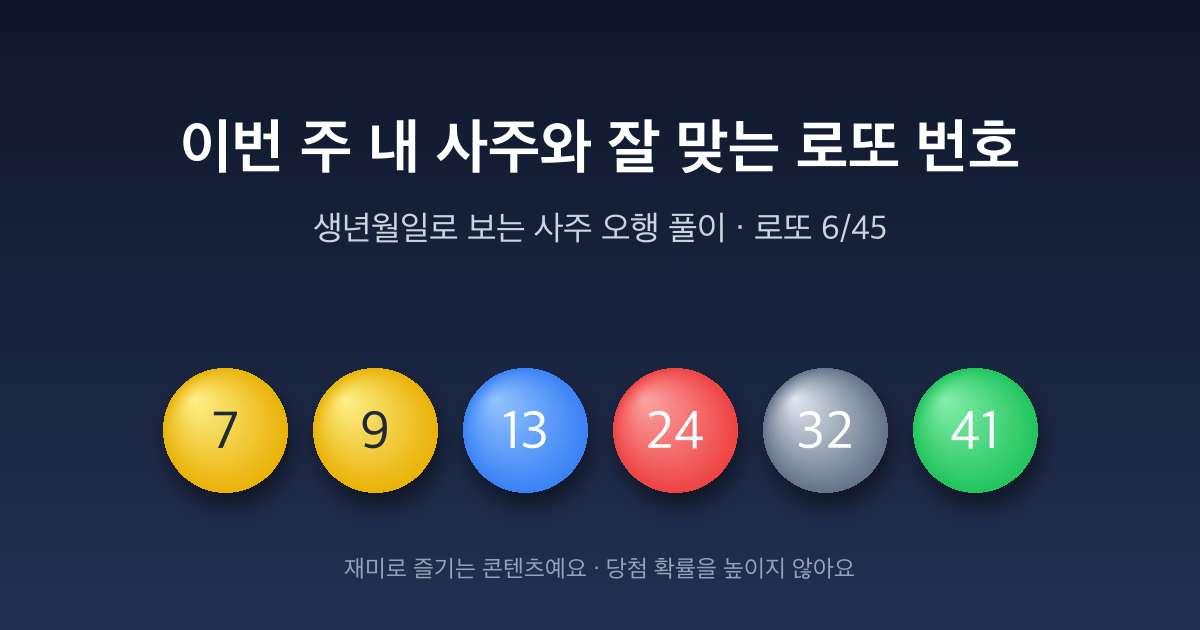
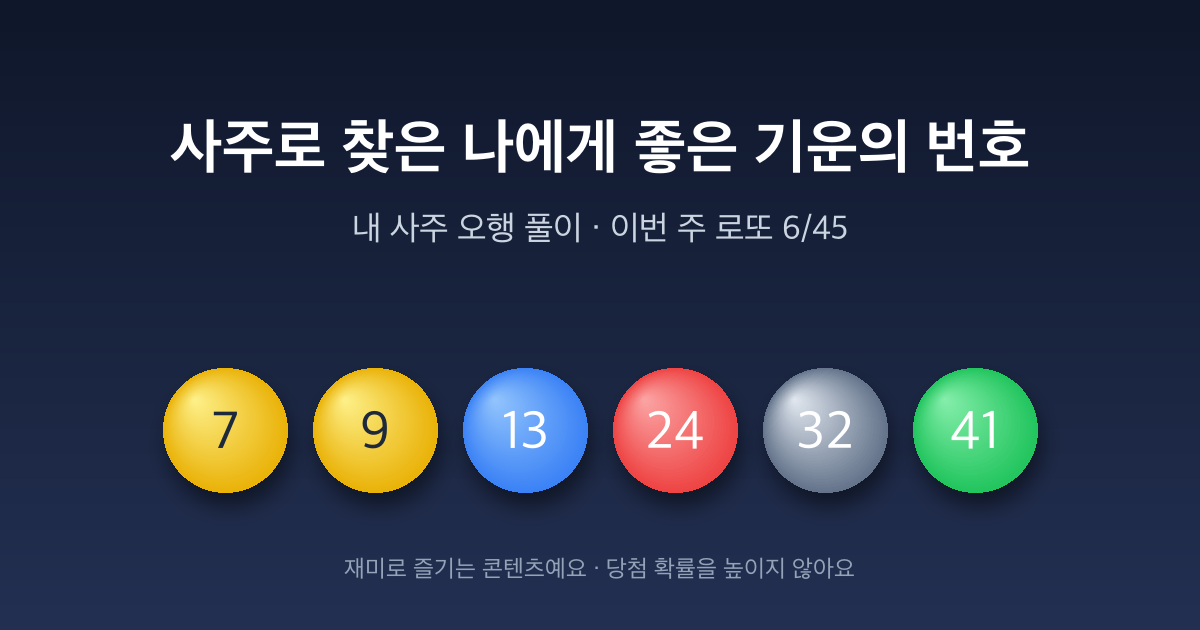
Remove per-number explanations; reframe as good-energy numbers from saju

Changed region(s): [[0.1233, 0.181, 0.8633, 0.3016], [0.2467, 0.3317, 0.74, 0.3921]]

diff --git a/index.html b/index.html
@@ -4,10 +4,10 @@
   <meta charset="UTF-8">
   <meta name="viewport" content="width=device-width, initial-scale=1.0">
   <title>행운의 로또 6/45 번호 생성기</title>
-  <meta name="description" content="생년월일로 보는 이번 주 사주 로또 번호와 풀이, 랜덤 번호 추첨까지. 재미로 즐기는 로또 6/45 번호 생성기.">
+  <meta name="description" content="내 사주 오행을 풀이하고, 이번 주 나에게 좋은 기운을 주는 번호를 알려 드려요. 랜덤 번호 추첨도 가능한 로또 6/45 번호 생성기 (재미용).">
   <meta property="og:type" content="website">
-  <meta property="og:title" content="이번 주 내 사주와 잘 맞는 로또 번호 🍀">
-  <meta property="og:description" content="생년월일로 사주 오행을 풀이하고, 이번 주 기운과 어울리는 로또 6/45 번호를 골라 드려요. (재미용 콘텐츠)">
+  <meta property="og:title" content="사주로 찾은 나에게 좋은 기운의 로또 번호 🍀">
+  <meta property="og:description" content="내 사주 오행을 풀이하고, 이번 주 나에게 좋은 기운을 주는 번호를 골라 드려요. (재미용 콘텐츠)">
   <meta property="og:url" content="https://chriskim926.github.io/product-builder-lecture/">
   <meta property="og:locale" content="ko_KR">
   <meta property="og:image" content="https://chriskim926.github.io/product-builder-lecture/og-image.png">
@@ -186,7 +186,7 @@
       <div id="sajuPanel" class="space-y-6">
         <section class="bg-white rounded-3xl p-6 md:p-8 shadow-xl shadow-slate-200/70 border border-slate-200/60">
           <h2 class="text-lg md:text-xl font-bold text-slate-800 mb-1">나의 사주 입력</h2>
-          <p class="text-xs md:text-sm text-slate-500 mb-5">생년월일(양력·음력)과 태어난 시간으로 사주 오행을 분석하고, 이번 주 기운과 잘 맞는 번호를 골라 드려요. 입력한 정보는 저장되지 않고 이 기기 안에서만 처리돼요.</p>
+          <p class="text-xs md:text-sm text-slate-500 mb-5">생년월일(양력·음력)과 태어난 시간으로 사주 오행을 분석하고, 나에게 좋은 기운을 주는 이번 주 번호를 골라 드려요. 입력한 정보는 서버로 전송되지 않고 이 기기 안에서만 처리·저장돼요.</p>
           <form id="sajuForm" autocomplete="off" class="grid gap-4 sm:grid-cols-2">
             <label class="block text-sm font-semibold text-slate-600">이름 (선택)
               <input name="sajuName" id="sajuName" type="text" maxlength="20" placeholder="홍길동" class="saju-input mt-1.5">
@@ -721,14 +721,6 @@
       if (CONTROLS[dayEl] === el) return '재성';
       return '관성';
     }
-    const ROLE_TEXT = {
-      비겁: '나와 같은 기운(힘·자신감)',
-      인성: '나를 도와주는 기운(귀인·학습)',
-      식상: '내가 펼치는 기운(표현·재능)',
-      재성: '내가 다루는 기운(재물·결과)',
-      관성: '나를 단련하는 기운(책임·명예)'
-    };
-
     function getWeekStart(now) {
       const d = new Date(now.getFullYear(), now.getMonth(), now.getDate());
       d.setDate(d.getDate() - mod(d.getDay() - 1, 7)); // 월요일 시작
@@ -812,20 +804,6 @@
       return picked.map((p) => ({ ...p, birthTag: birthNums[p.n] || null }));
     }
 
-    function numberReason(p, analysis) {
-      const role = roleOf(analysis.dayEl, p.el);
-      const parts = [];
-      const cnt = analysis.natal[p.el];
-      const elName = `${ELEMENTS_H[p.el]}(${p.el})`;
-      if (cnt === 0) parts.push(`내 사주에 ${elName} 기운이 없어 채워 주는 수`);
-      else if (cnt === 1) parts.push(`내 사주에 ${elName} 기운이 적어 보강해 주는 수`);
-      else parts.push(`내 사주의 ${elName} 기운(${cnt}개)과 어울리는 수`);
-      parts.push(`${ROLE_TEXT[role]}`);
-      if (p.el === analysis.weekTop) parts.push('이번 주 가장 강한 기운');
-      if (p.birthTag) parts.push(`내 ${p.birthTag}와 같은 숫자`);
-      return parts.join(' · ');
-    }
-
     const esc = (s) => String(s).replace(/[&<>"']/g, (c) => ({ '&': '&amp;', '<': '&lt;', '>': '&gt;', '"': '&quot;', "'": '&#39;' }[c]));
 
     let sajuState = null; // { input, analysis, gameIdx }
@@ -859,24 +837,15 @@
         `<strong>일간 ${dayStemName} · ${ELEMENTS_H[a.dayEl]}(${a.dayEl})</strong> — ${DAY_MASTER_TEXT[a.dayEl]}`,
         `사주 전체로는 <strong>${ELEMENTS_H[strongestNatal]}(${strongestNatal})</strong> 기운이 가장 많고, ${lacking.length ? `<strong>${lacking.map((e) => `${ELEMENTS_H[e]}(${e})`).join(', ')}</strong> 기운이 비어 있어요.` : '다섯 기운이 모두 고르게 있어요.'} 나의 힘은 ${a.isStrong ? '비교적 강한 편이라, 기운을 펼쳐 쓰는 식상·재성·관성 기운이 균형을 맞춰 줘요.' : '비교적 여린 편이라, 나를 도와주는 인성·비겁 기운이 힘이 돼요.'}`,
         `이번 주(${fmtDate(a.weekStart)}~) 흐름은 <strong>${ELEMENTS_H[a.weekTop]}(${a.weekTop})</strong> 기운이 가장 강해요. ${WEEK_EL_TEXT[a.weekTop]}`,
-        `그래서 이번 주 나와 잘 맞는 기운은 <strong>${a.ranked.slice(0, 2).map((e) => `${ELEMENTS_H[e]}(${e})`).join(' → ')}</strong> 순서예요. 이 기운에 해당하는 번호(하도 수리 기준)를 더 높은 비중으로 골랐어요.`
+        `그래서 이번 주 ${nameLabel}에게 좋은 기운을 주는 오행은 <strong>${a.ranked.slice(0, 2).map((e) => `${ELEMENTS_H[e]}(${e})`).join(' → ')}</strong> 순서예요. 부족한 기운은 채워 주고 이번 주 흐름과 조화를 이루는 기운이라, 이 오행에 해당하는 번호(하도 수리 기준)를 중심으로 골랐어요.`
       ];
       if (input.lunarNote) readingLines.unshift(input.lunarNote);
       if (!input.hasHour) readingLines.push('태어난 시간을 입력하지 않아 시주(時柱)는 제외하고 풀이했어요.');
 
-      const ballsHtml = nums.map((p) => `
-        <div class="flex items-start gap-3 py-2.5 border-b border-slate-100 last:border-0">
-          <div class="lotto-ball ${getBallColorClass(p.n)} w-11 h-11 text-base shrink-0">${p.n}</div>
-          <div class="text-sm leading-snug">
-            <span class="font-bold" style="color:${EL_COLOR[p.el]}">${ELEMENTS_H[p.el]}</span>
-            <span class="text-slate-600">${numberReason(p, a)}</span>
-          </div>
-        </div>`).join('');
-
       out.innerHTML = `
         <div class="text-center mb-5">
           <div class="text-xs font-bold tracking-widest text-slate-400">THIS WEEK · ${fmtDate(a.weekStart)} ~</div>
-          <h3 class="text-xl md:text-2xl font-black text-slate-900 mt-1">${nameLabel}의 이번 주 사주 로또</h3>
+          <h3 class="text-xl md:text-2xl font-black text-slate-900 mt-1">${nameLabel}에게 좋은 기운을 주는 이번 주 번호</h3>
         </div>
         <div class="grid grid-cols-4 gap-2 max-w-sm mx-auto mb-4">${pillarHtml}</div>
         <div class="max-w-sm mx-auto space-y-1.5 mb-6">${barHtml}</div>
@@ -886,8 +855,7 @@
         <div class="flex flex-wrap justify-center gap-2.5 mb-4">
           ${nums.map((p) => `<div class="lotto-ball ${getBallColorClass(p.n)} w-12 h-12 md:w-14 md:h-14 text-lg md:text-xl animate-ball-appear">${p.n}</div>`).join('')}
         </div>
-        <div class="text-center text-xs text-slate-400 mb-2">조합 ${String.fromCharCode(65 + (gameIdx % 26))}</div>
-        <div class="mb-5">${ballsHtml}</div>
+        <div class="text-center text-xs text-slate-400 mb-5">좋은 기운의 번호 · 조합 ${String.fromCharCode(65 + (gameIdx % 26))}</div>
         <div class="flex flex-col sm:flex-row gap-2.5 justify-center">
           <button id="btnSajuAnother" class="px-5 py-2.5 bg-slate-900 text-white font-bold text-sm rounded-2xl active:scale-95 transition">다른 조합 받기</button>
           <button id="btnSajuCopy" class="px-5 py-2.5 bg-white border border-slate-200 text-slate-700 font-semibold text-sm rounded-2xl shadow-sm active:scale-95 transition">번호 복사</button>
@@ -951,7 +919,7 @@
 
       document.getElementById('btnShare').addEventListener('click', async () => {
         const url = location.href.split('#')[0];
-        const data = { title: '이번 주 내 사주와 잘 맞는 로또 번호', text: '생년월일로 보는 이번 주 사주 로또 번호 (재미용)', url };
+        const data = { title: '사주로 찾은 나에게 좋은 기운의 로또 번호', text: '내 사주 오행을 풀이하고, 이번 주 나에게 좋은 기운을 주는 번호를 알려 드려요 (재미용)', url };
         try {
           if (navigator.share) { await navigator.share(data); return; }
         } catch (e) { return; }
